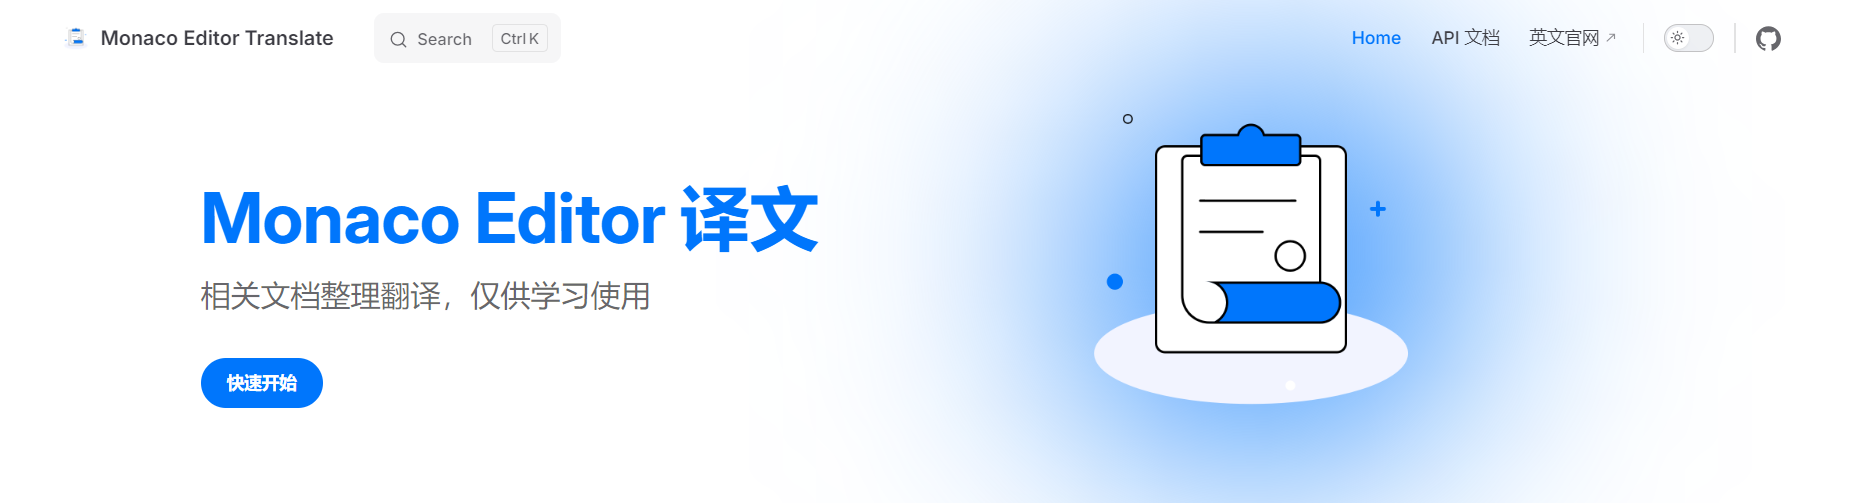
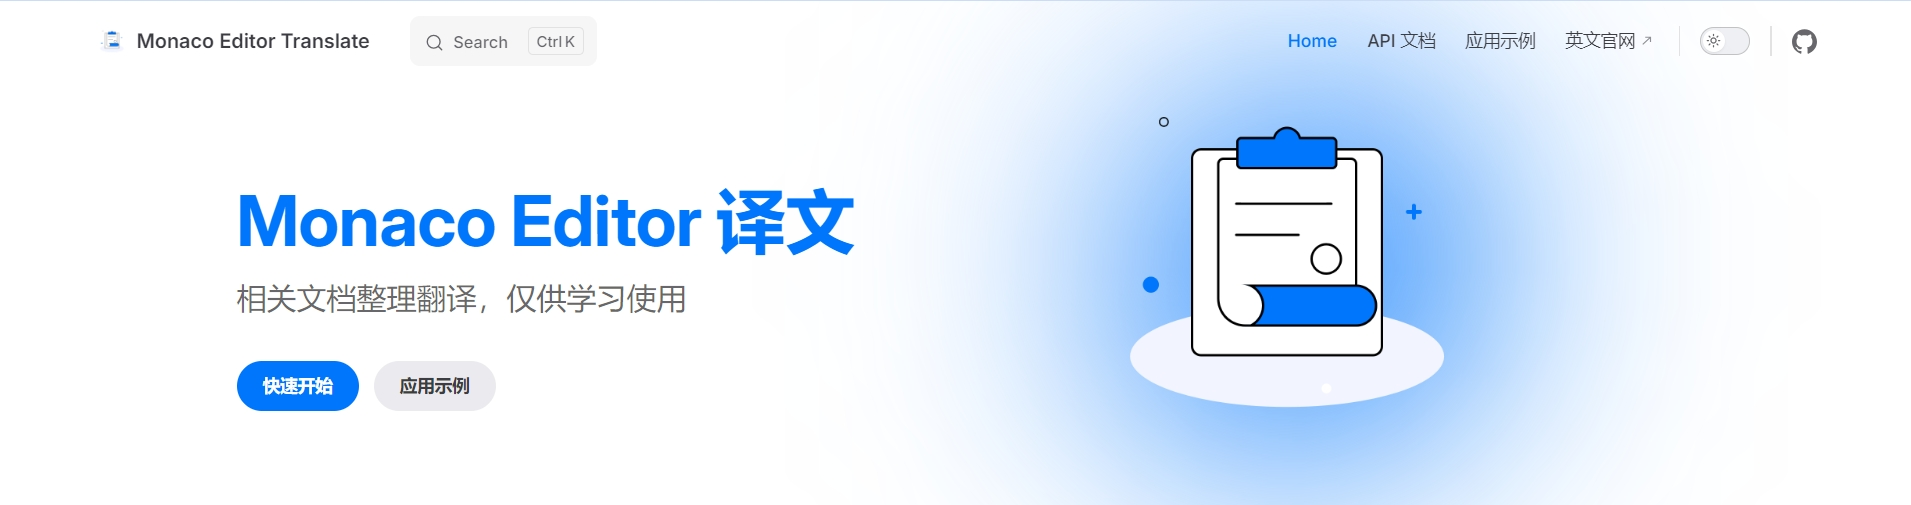
docs:UPDATE README

diff --git a/README.md b/README.md
@@ -16,6 +16,7 @@
 - **文档全面**：全文共计`500+`篇文章，涵盖全部API、接口、类；
 - **贴合官网**：采用原生目录接口进行编写，保持与官网一致的菜单结构；
 - **附加示例**：特定API还增加样例及截图，使得用户更清晰了解API的使用；
+- **应用DEMO**：提供一些应用示例、使用场景、常见功能DEMO，帮助用户快速了解 Monaco Editor 的适用范围、功能；
 
 
 ## 相关截图
@@ -24,16 +25,27 @@
 <img src='./public/editor.png' aligh="center" />
 <img src='./public/action.png' aligh="center" />
 
+
+<!-- 应用示例 -->
+**应用示例:**
+
+<img src='./public/plugin-i18n.png' aligh="center" />
+<img src='./public/theme.png' aligh="center" />
+<img src='./public/diffEditor.png' aligh="center" />
+
+
 ## Monaco Editor 共创计划
 
 1. github地址：https://github.com/wf0/monaco-editor-translate
 2. gitee地址：https://gitee.com/wfeng0/monaco-editor-translate
 3. 如果发现文档存在错误，欢迎提交 PR 或 Issue，亦或直接点击页面 `在 GitHub 上编辑此页面` ，前往提交。
-4. 欢迎加入讨论群，一起交流相关技术。
+4. 欢迎加入讨论群，一起交流相关技术(借用 socketIO 的交流群哈`522121825`)。
+
+<img src='./public/qq.png' aligh="center" />
 
 
 ## 未来计划
 
 1. 针对每一个API，增加示例及截图，对不同的类、方法、属性进行更加详细的描述；
-2. 增加独立的应用章节，方便用户快速了解如何 Monaco Editor 可能的应用场景。
+2. 完善应用章节，方便用户快速了解如何 Monaco Editor 可能的应用场景。
 3. 持续更新，持续翻译，持续维护。
